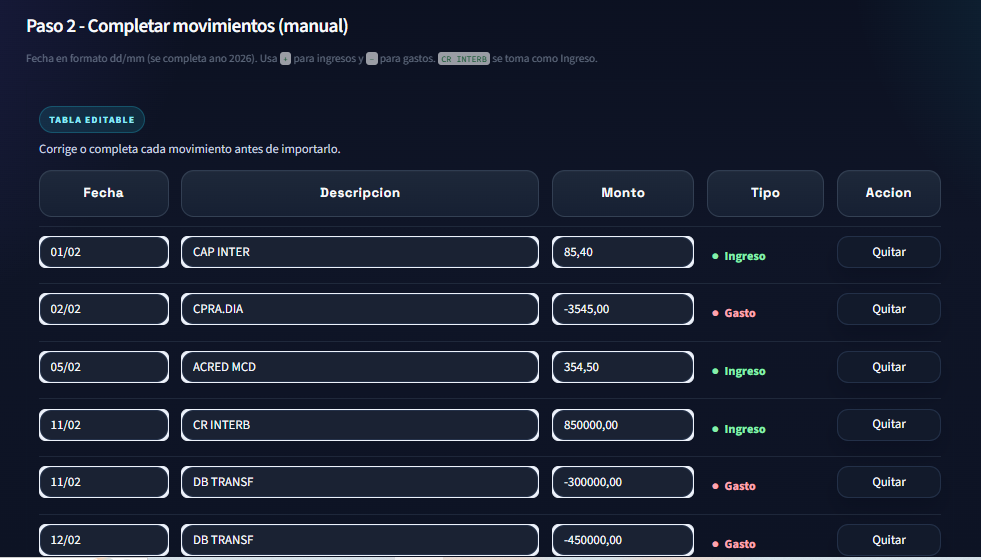
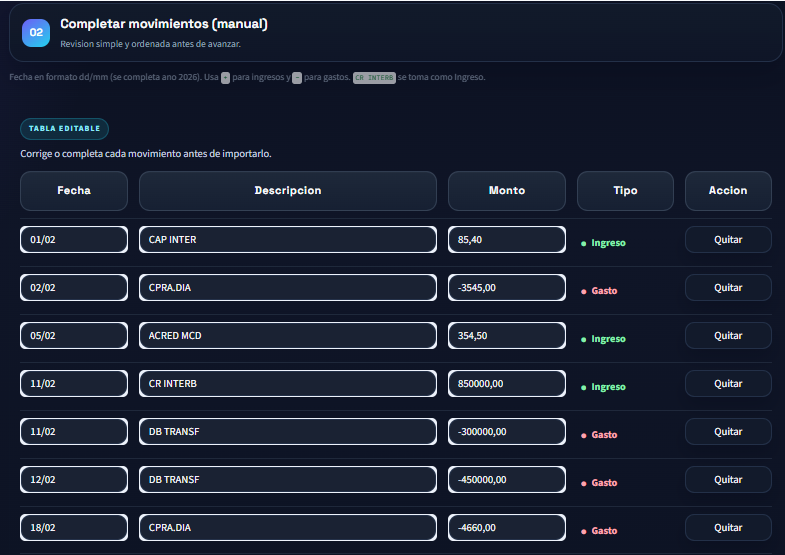
Polish public screenshots and import categorization

diff --git a/src/finanzas_importer/mp_parser.py b/src/finanzas_importer/mp_parser.py
@@ -118,9 +118,51 @@ def _resolve_tipo(transaction_type: object, amount: float) -> str:
     return "Gasto" if amount < 0 else "Ingreso"
 
 
-def _apply_safe_category_rules(description: object, default_category: str = "Otros") -> tuple[str, str, str, str]:
+def infer_category_from_description(description: object, default_category: str = "Otros") -> tuple[str, str, str, str]:
     desc = str(description).strip()
     normalized = _strip_accents(desc.lower())
+
+    if "ingreso principal" in normalized:
+        return desc, "Ingresos", "Base", "MP_INCOME_BASE"
+    if "proyecto independiente" in normalized:
+        return desc, "Ingresos", "Proyecto", "MP_INCOME_PROJECT"
+    if "gastos compartidos" in normalized:
+        return desc, "Ingresos", "Compartido", "MP_SHARED_IN"
+    if "ajuste demo" in normalized or "ajuste viaje demo" in normalized or "reintegro" in normalized:
+        return desc, "Ingresos", "Ajuste", "MP_INCOME_ADJUSTMENT"
+    if "vivienda mensual" in normalized:
+        return desc, "Vivienda", "Fijo", "MP_HOUSING"
+    if "fondo viaje" in normalized:
+        return desc, "Ahorro", "Fondo viaje", "MP_SAVINGS"
+    if "mercado semanal" in normalized or "compra de cercania" in normalized:
+        return desc, "Comida", "Mercado", "MP_FOOD"
+    if "salida casual" in normalized:
+        return desc, "Comida", "Salida", "MP_DINING"
+    if "salud y cuidado" in normalized:
+        return desc, "Salud", "Cuidado", "MP_HEALTH"
+    if "combustible" in normalized or "movilidad urbana" in normalized:
+        return desc, "Transporte", "Movilidad", "MP_TRANSPORT"
+    if "suscripcion media" in normalized or "suscripcion demo" in normalized:
+        return desc, "Ocio", "Digital", "MP_DIGITAL"
+    if "actividad fisica" in normalized:
+        return desc, "Bienestar", "Habito", "MP_WELLNESS"
+    if "regalo planificado" in normalized:
+        return desc, "Regalos", "Planificado", "MP_GIFTS"
+    if normalized.startswith("transferencia recibida"):
+        return desc, "Ingresos", "Transferencia", "MP_TRANSFER_IN"
+    if normalized.startswith("transferencia enviada"):
+        return desc, "Transferencias", "Salida", "MP_TRANSFER_OUT"
+
+    if normalized in {"cr interb", "cap inter"} or "interb" in normalized:
+        return desc, "Ingresos", "Transferencia", "BANK_TRANSFER_IN"
+    if normalized == "db transf":
+        return desc, "Transferencias", "Salida", "BANK_TRANSFER_OUT"
+    if normalized in {"cpra.sup", "cpra.merp", "cpra.dia"}:
+        return desc, "Comida", "Consumo diario", "BANK_FOOD"
+    if normalized.startswith("cpra.la"):
+        return desc, "Compras", "Consumo general", "BANK_PURCHASE"
+    if normalized.startswith("cpra."):
+        return desc, "Compras", "Consumo general", "BANK_PURCHASE"
 
     if re.search(r"\bdia\b", normalized) or "dia tienda" in normalized or "supermercados dia" in normalized:
         return "Supermercado dia", "Comida", "", "DIA"
@@ -221,7 +263,7 @@ def parse_mercado_pago_excel(path_or_buffer: str | Path | BinaryIO) -> ParseResu
     }
     mp = mp.loc[~mask_rendimientos & ~mask_self_transfer].copy()
 
-    categories = mp["descripcion"].map(lambda d: _apply_safe_category_rules(d, default_category="Otros"))
+    categories = mp["descripcion"].map(lambda d: infer_category_from_description(d, default_category="Otros"))
     mp["descripcion"], mp["categoria"], mp["subcategoria"], mp["regla_categoria"] = zip(*categories)
     nadia_mask = mp["TRANSACTION_TYPE"].map(_is_nadia_transfer) | mp["TRANSACTION_TYPE"].map(_is_nadia_caceres_transfer)
     nadia_sent_mask = mp["TRANSACTION_TYPE"].map(_is_nadia_sent_transfer)

diff --git a/app.py b/app.py
@@ -21,6 +21,7 @@ from src.finanzas_importer.analytics import (
 )
 from src.finanzas_importer.mp_parser import (
     ParseResult,
+    infer_category_from_description,
     normalize_description,
     parse_mercado_pago_excel,
 )
@@ -389,7 +390,7 @@ else:
                 .reset_index(drop=True)
             )
 
-        st.markdown("#### Paso 2 - Completar movimientos (manual)")
+        render_step_title(2, "Completar movimientos (manual)")
         st.caption(f"Fecha en formato dd/mm (se completa ano {current_year}). Usa `+` para ingresos y `-` para gastos. `CR INTERB` se toma como Ingreso.")
         edited_df = _render_bna_manual_editor(seed_df)
 
@@ -426,6 +427,7 @@ else:
                 tipo = "Ingreso"
 
             desc_safe = desc if desc else "Movimiento bancario"
+            desc_safe, categoria, subcategoria, regla = infer_category_from_description(desc_safe, default_category="Otros")
             desc_norm = normalize_description(desc_safe)
             ref_seed = f"bank_capture|manual|{fecha.strftime('%Y-%m-%d')}|{tipo}|{monto_val:.2f}|{desc_norm}"
             mp_ref = f"cap_{sha1(ref_seed.encode('utf-8')).hexdigest()[:12]}"
@@ -439,9 +441,9 @@ else:
                 {
                     "date": fecha,
                     "tipo": tipo,
-                    "categoria": "Otros",
-                    "subcategoria": "",
-                    "regla_categoria": "CAPTURA_BANCARIA_MANUAL_V1",
+                    "categoria": categoria,
+                    "subcategoria": subcategoria,
+                    "regla_categoria": f"CAPTURA_BANCARIA_MANUAL_{regla}",
                     "descripcion": desc_safe,
                     "descripcion_norm": desc_norm,
                     "monto": monto_val,
@@ -458,7 +460,7 @@ else:
 
         if rows:
             parsed_df = pd.DataFrame(rows).sort_values("date").reset_index(drop=True)
-            st.markdown("#### Paso 3 - Preview captura bancaria")
+            render_step_title(3, "Preview captura bancaria")
             render_preview_table(
                 format_preview_df(parsed_df).head(100),
                 ["date", "tipo_visual", "categoria", "descripcion", "monto", "compartido"],

diff --git a/src/finanzas_importer/bna_image_parser.py b/src/finanzas_importer/bna_image_parser.py
@@ -11,7 +11,7 @@ import shutil
 import pandas as pd
 from PIL import Image, ImageFilter, ImageOps
 
-from .mp_parser import normalize_description
+from .mp_parser import infer_category_from_description, normalize_description
 from .utils import parse_number_ar
 
 try:
@@ -187,6 +187,7 @@ def parse_bna_image(source_bytes: bytes, source_name: str = "") -> BnaParseResul
         day_value, month_value = (int(part) for part in date_token.split("/"))
         date_value = _parse_date_ddmm_current_year(date_token)
         desc_norm = normalize_description(desc)
+        desc_resolved, categoria, subcategoria, regla = infer_category_from_description(desc, default_category="Otros")
         ref_seed = f"bank_capture|ocr|bna|{date_value.strftime('%Y-%m-%d')}|{tipo}|{amount_abs:.2f}|{desc_norm}"
         ref_hash = sha1(ref_seed.encode("utf-8")).hexdigest()[:12]
         mp_ref = f"cap_{ref_hash}"
@@ -196,10 +197,10 @@ def parse_bna_image(source_bytes: bytes, source_name: str = "") -> BnaParseResul
             {
                 "date": date_value,
                 "tipo": tipo,
-                "categoria": "Otros",
-                "subcategoria": "",
-                "regla_categoria": "CAPTURA_BANCARIA_OCR_V1",
-                "descripcion": desc.strip(),
+                "categoria": categoria,
+                "subcategoria": subcategoria,
+                "regla_categoria": f"CAPTURA_BANCARIA_OCR_{regla}",
+                "descripcion": desc_resolved.strip(),
                 "descripcion_norm": desc_norm,
                 "monto": amount_abs,
                 "mp_ref": mp_ref,

diff --git a/docs/demo-capture-plan.md b/docs/demo-capture-plan.md
@@ -19,18 +19,20 @@ Usar este orden para generar capturas consistentes del proyecto.
    Mostrar el modo `Archivo Excel` con el archivo demo cargado.
 
 3. Review import
-   Mostrar metricas de control, preview y bloque de importacion listo.
+   Mostrar la preview de movimientos ya categorizada y lista para revisar.
 
 4. Bank capture editor
    Mostrar la tabla editable ya completa y prolija.
    Priorizar la grilla final, no la imagen bancaria original.
 
-5. Bank capture preview
-   Mostrar la preview final antes de importar.
-   Evitar thumbnails o bloques donde se vean las capturas originales completas.
+5. Month KPIs
+   Mostrar tarjetas o resumen rapido del mes despues de la lectura del demo.
 
 6. Month insights
    Mostrar KPIs y al menos un grafico para cerrar la demo.
+
+7. Import ready
+   Mostrar alertas accionables y confirmacion final de escritura.
 
 ## Criterio visual
 
@@ -46,5 +48,6 @@ Usar este orden para generar capturas consistentes del proyecto.
 - `docs/screenshots/02-excel-upload.png`
 - `docs/screenshots/03-review-import.png`
 - `docs/screenshots/04-bank-capture-editor.png`
-- `docs/screenshots/05-bank-capture-preview.png`
+- `docs/screenshots/05-month-kpis.png`
 - `docs/screenshots/06-month-insights.png`
+- `docs/screenshots/07-import-ready.png`

diff --git a/README.md b/README.md
@@ -77,8 +77,9 @@ Las capturas publicables quedan en `docs/screenshots/`:
 - [`02-excel-upload.png`](docs/screenshots/02-excel-upload.png)
 - [`03-review-import.png`](docs/screenshots/03-review-import.png)
 - [`04-bank-capture-editor.png`](docs/screenshots/04-bank-capture-editor.png)
-- [`05-bank-capture-preview.png`](docs/screenshots/05-bank-capture-preview.png)
+- [`05-month-kpis.png`](docs/screenshots/05-month-kpis.png)
 - [`06-month-insights.png`](docs/screenshots/06-month-insights.png)
+- [`07-import-ready.png`](docs/screenshots/07-import-ready.png)
 
 ## Vista rapida
 
@@ -98,11 +99,17 @@ Las capturas publicables quedan en `docs/screenshots/`:
 
 ![Bank capture editor](docs/screenshots/04-bank-capture-editor.png)
 
-![Bank capture preview](docs/screenshots/05-bank-capture-preview.png)
+### KPIs del mes
+
+![Month KPIs](docs/screenshots/05-month-kpis.png)
 
 ### Insights mensuales
 
 ![Month insights](docs/screenshots/06-month-insights.png)
+
+### Confirmacion final
+
+![Import ready](docs/screenshots/07-import-ready.png)
 
 ## Ejecutar con doble click (Windows)
 

diff --git a/docs/screenshots/README.md b/docs/screenshots/README.md
@@ -9,8 +9,9 @@ Dejar en esta carpeta solo el set final publicable.
 2. `02-excel-upload.png`
 3. `03-review-import.png`
 4. `04-bank-capture-editor.png`
-5. `05-bank-capture-preview.png`
+5. `05-month-kpis.png`
 6. `06-month-insights.png`
+7. `07-import-ready.png`
 
 ## Criterio
 
@@ -19,6 +20,7 @@ Dejar en esta carpeta solo el set final publicable.
 - mantener mismo tamano de ventana en todas las capturas
 - evitar barras del sistema, notificaciones o rutas locales visibles
 - mostrar una sola idea clara por imagen
+- no publicar capturas que muestren thumbnails o fotos bancarias originales completas
 
 ## Antes de publicar
 
